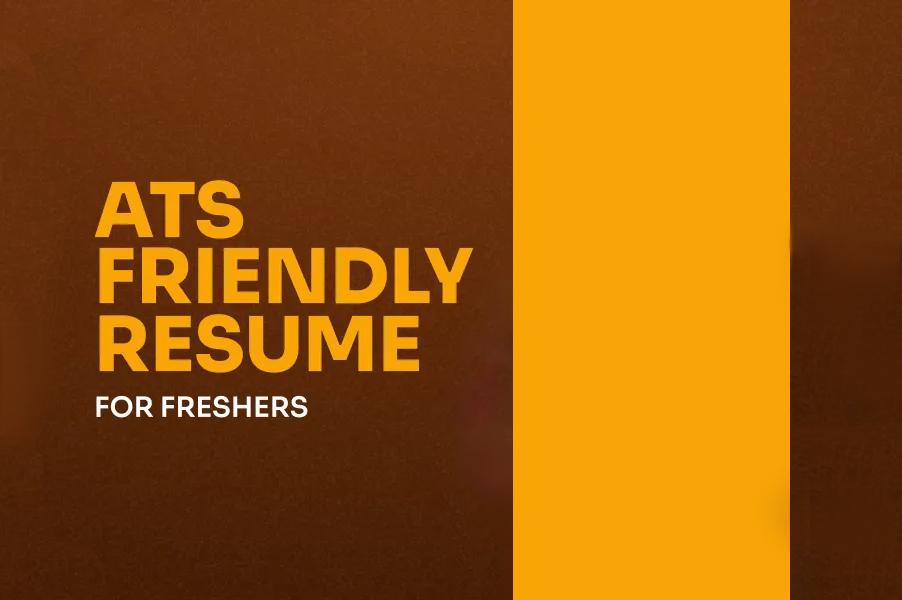
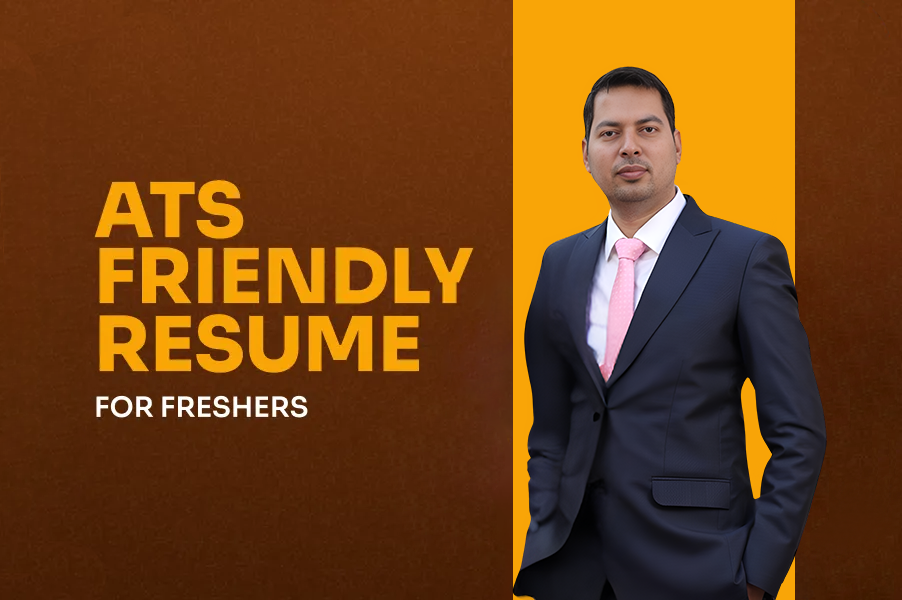
images

Changed region(s): [[0.5588, 0.0, 0.9313, 1.0]]

diff --git a/components/services/page.tsx b/components/services/page.tsx
@@ -13,7 +13,7 @@ const servicesData = [
     },
     {
         id: 2,
-        imageSrc: "/images/services/interview.png",
+        imageSrc: "/images/services/experienced.png",
         imageSrcSet: "https://assets-global.website-files.com/64c40ba0d80b7fc4d6b7b4bb/64ca0b2ccde1577e5e3e63ea_Frame%20(2)-p-500.png 500w, https://assets-global.website-files.com/64c40ba0d80b7fc4d6b7b4bb/64ca0b2ccde1577e5e3e63ea_Frame%20(2)-p-800.png 800w, https://assets-global.website-files.com/64c40ba0d80b7fc4d6b7b4bb/64ca0b2ccde1577e5e3e63ea_Frame%20(2)-p-1080.png 1080w, https://assets-global.website-files.com/64c40ba0d80b7fc4d6b7b4bb/64ca0b2ccde1577e5e3e63ea_Frame%20(2).png 1344w",
         title: "ATS Friendly Resume (Experienced)",
         slug: "ats-experienced",
